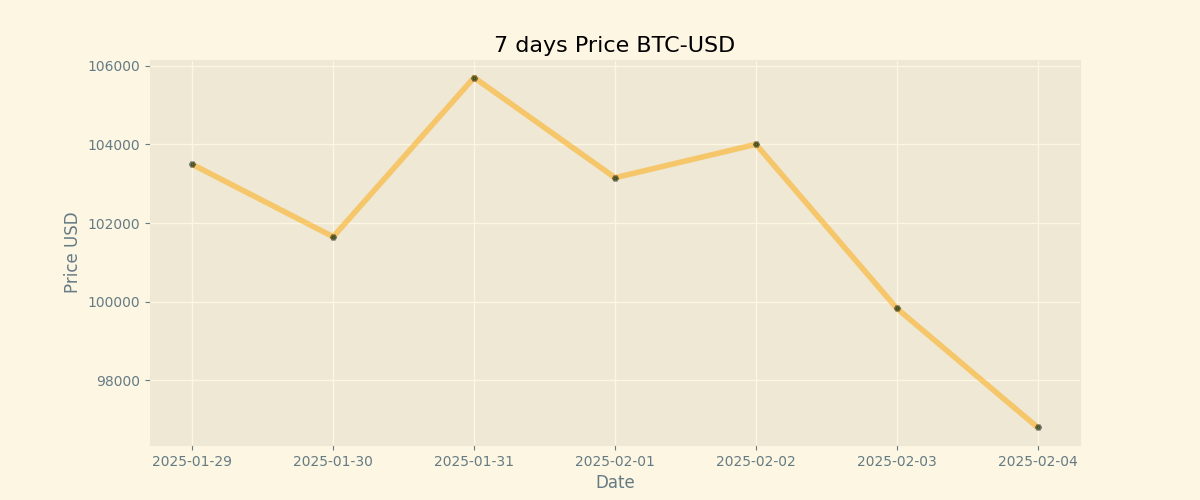
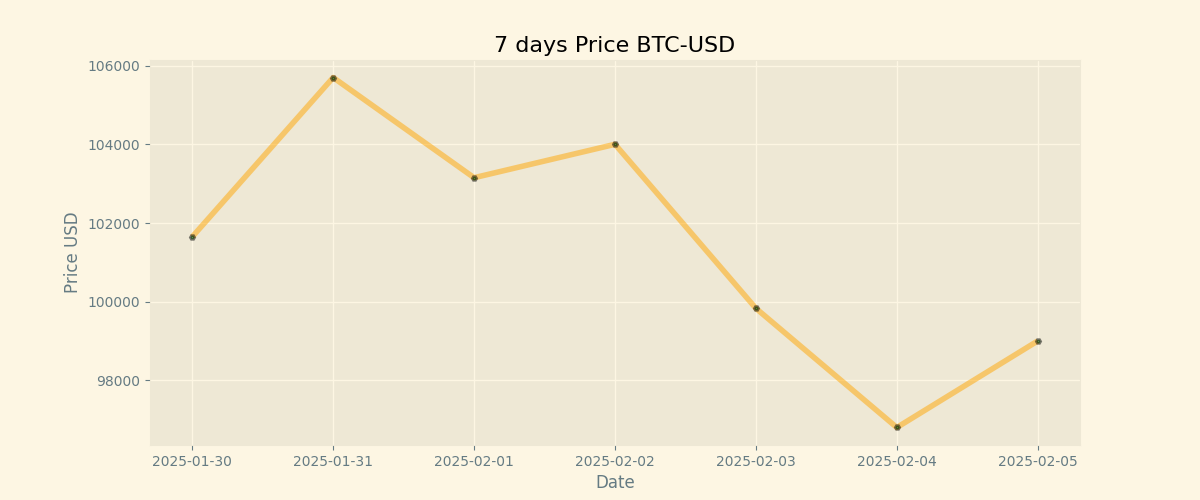
Duty Updates 2025-02-05

diff --git a/README.md b/README.md
@@ -9,8 +9,8 @@
 
 | Currency | Price           |
 | -------- | --------------- |
-| **BTC**  | **$ 96800.0** |
-| **ETH**  | **$ 2647.24** |
+| **BTC**  | **$ 99001.0** |
+| **ETH**  | **$ 2690.0** |
 
 ## BTC chart
 
